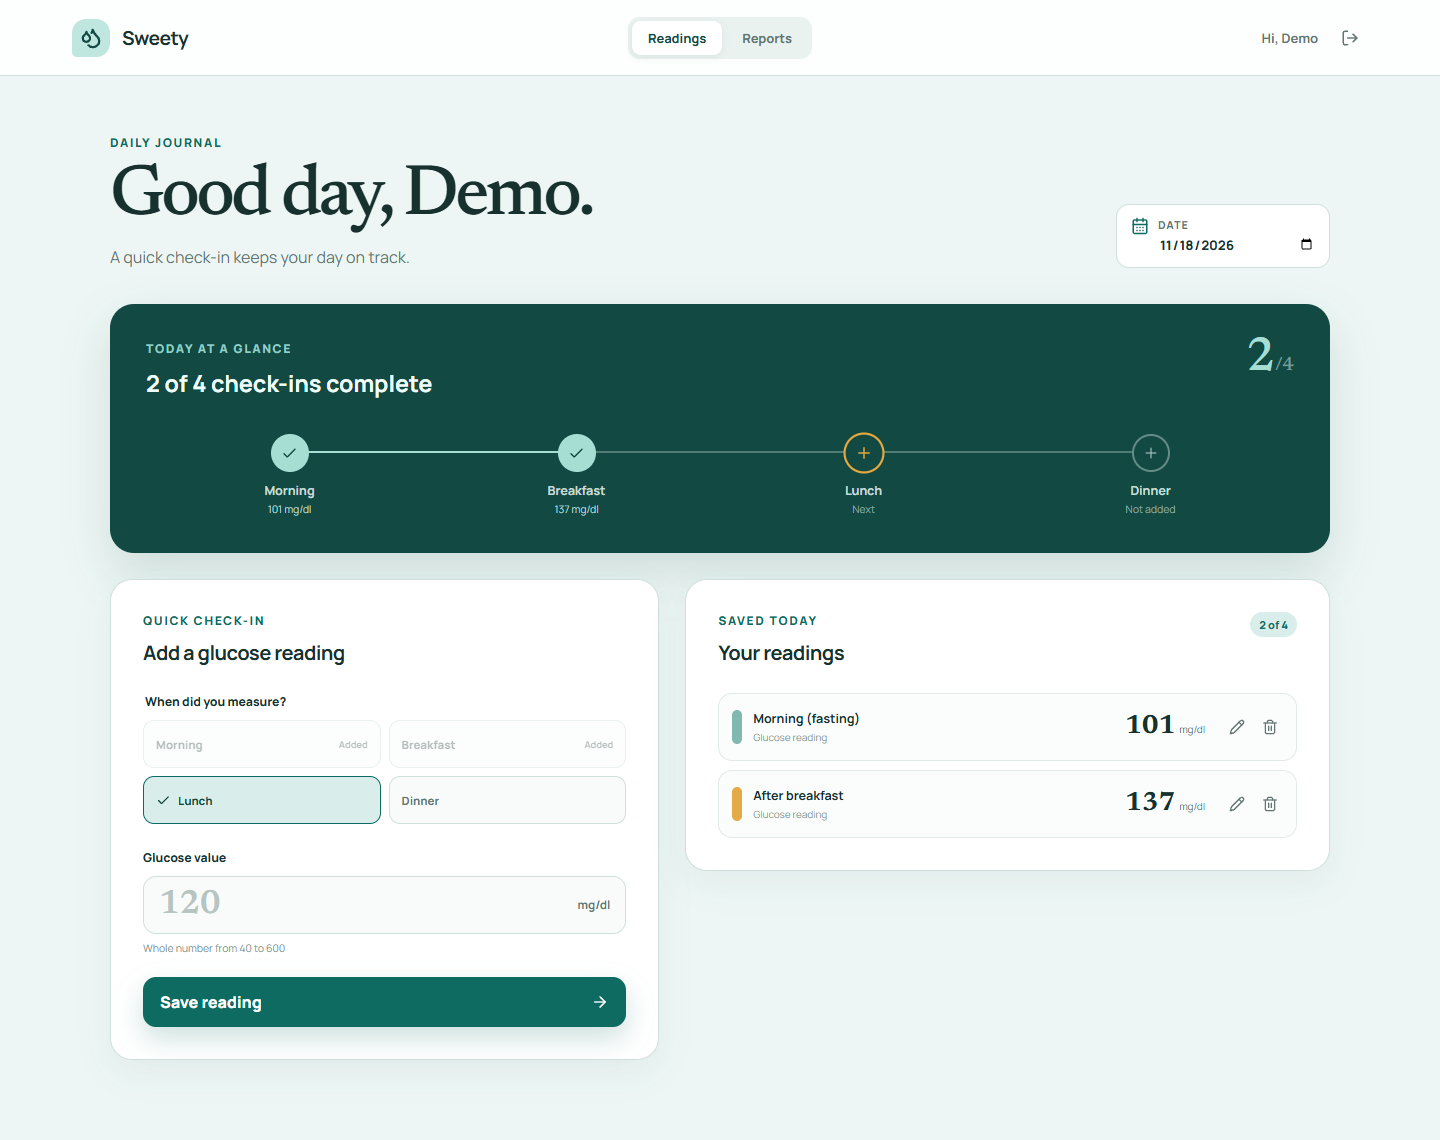
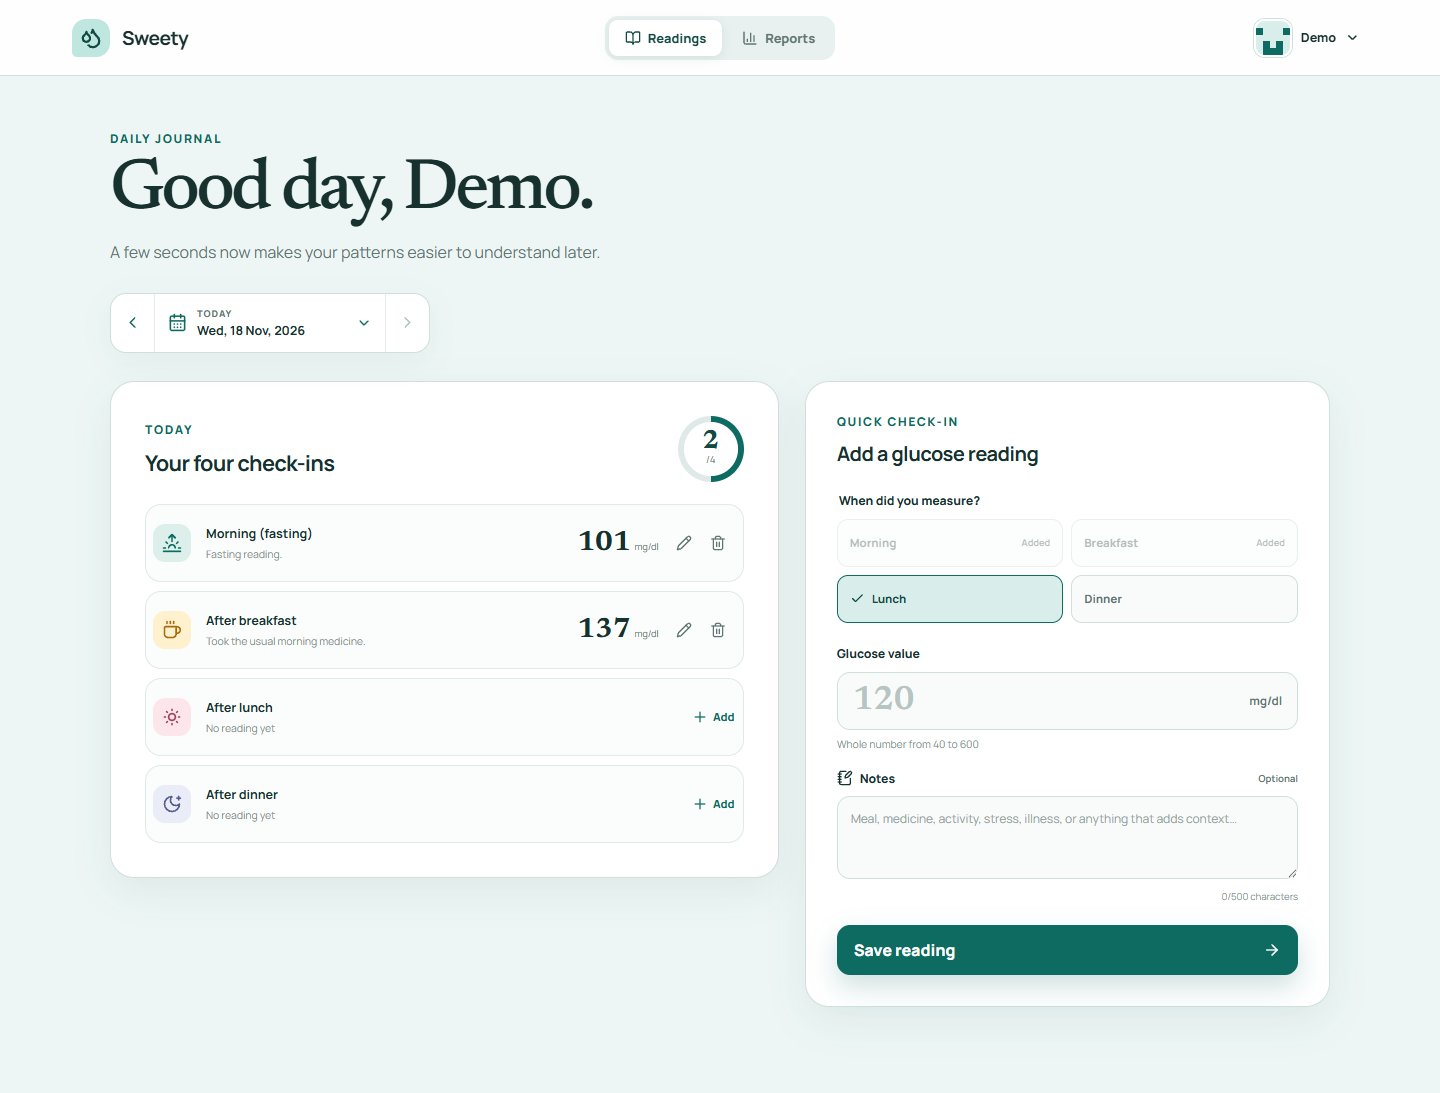
docs: refresh feature guide and screenshots

diff --git a/README.md b/README.md
@@ -1,32 +1,36 @@
 # Sweety
 
-Sweety is a small blood glucose journal for diabetes patients. A patient can record up to four readings per day, manage previous readings, and review daily, month-to-date, and previous-month reports.
+Sweety is a small blood glucose journal for diabetes patients. A patient can record up to four readings per day, add context to each check-in, manage previous readings, and review daily, month-to-date, and previous-month reports.
 
-The interface is designed for a short repeated task: the next empty time slot is selected automatically, the value field is prominent, and a completed slot can be opened directly for editing.
+The mobile-friendly interface is designed for a short repeated task: the next empty time slot is selected automatically, the value field is prominent, and a completed slot can be opened directly for editing.
 
 ## Features
 
 - Register and log in with a bcrypt-hashed password and JWT authentication.
 - Keep every reading scoped to its authenticated user.
 - Add, view, edit, and delete readings in four fixed daily slots.
+- Attach an optional note to a reading for useful context such as meals, medicine, exercise, illness, or stress.
 - Enforce value, date, duplicate-slot, and four-per-day rules in the API and database.
 - View daily, month-to-date, and complete previous-month statistics.
-- See highest, lowest, one-decimal average, count, and daily slot details.
+- See highest, lowest, one-decimal average, count, glucose trends, and day-by-day logging consistency.
+- Export the current report as CSV, print or save it as PDF, and export the user's complete history.
+- Use an in-app date picker, edit/delete controls, confirmation dialog, and generated profile avatar on desktop or mobile.
 - Paginate the complete reading history through the API.
 - Start PostgreSQL, the API, and the client with Docker Compose.
-- Run meaningful backend integration tests and React form tests.
+- Run meaningful backend integration tests plus React form and report-transition tests.
 
 ## Screenshots
 
-| Fast daily check-in | Daily report |
-|---|---|
-| ![Daily readings dashboard](docs/screenshots/dashboard.png) | ![Daily glucose report](docs/screenshots/reports.png) |
+| Fast daily check-in | Daily report | Mobile month-to-date |
+|---|---|---|
+| ![Daily readings dashboard](docs/screenshots/dashboard.png) | ![Daily glucose report](docs/screenshots/reports.png) | ![Mobile month-to-date glucose report](docs/screenshots/mobile-reports.png) |
 
 The login and registration experience is shown in [the authentication screenshot](docs/screenshots/login.png).
 
 ## Technology
 
 - React 19 and Vite
+- Recharts and React DayPicker
 - Node.js and Express 5
 - PostgreSQL with `pg` and parameterized SQL
 - bcrypt and JSON Web Tokens
@@ -106,6 +110,7 @@ It creates `users` and `readings`, including:
 - a foreign key from readings to users with cascade deletion;
 - a check constraint for the four allowed slots;
 - a check constraint for values from 40 through 600;
+- an optional note limited to 500 characters;
 - `UNIQUE (user_id, reading_date, slot)` as the final duplicate-slot safeguard.
 
 Docker creates both `sweety` and `sweety_test` databases the first time its PostgreSQL volume is initialized.
@@ -118,7 +123,7 @@ Start the Docker database, then run:
 npm test
 ```
 
-The backend tests truncate only `sweety_test`. They cover password hashing, duplicate accounts, all specified reading rules, a full-day edit, cross-user isolation, pagination, report calculations, empty reports, and the January-to-December boundary. The frontend tests cover required and range errors plus create and edit requests from the reading form.
+The backend tests truncate only `sweety_test`. They cover password hashing, duplicate accounts, all specified reading rules, notes, a full-day edit, cross-user isolation, pagination and export isolation, report calculations, empty reports, and the January-to-December boundary. The frontend tests cover required and range errors, create and edit requests with notes, and rapid report-tab transitions so stale responses cannot blank the screen.
 
 Useful individual commands:
 
@@ -140,6 +145,7 @@ Except for health, registration, and login, routes require `Authorization: Beare
 | `GET` | `/api/auth/me` | Verify a session |
 | `GET` | `/api/readings?date=YYYY-MM-DD` | Read one day |
 | `GET` | `/api/readings?page=1&limit=20` | Paginated history |
+| `GET` | `/api/readings/export` | Complete authenticated-user history |
 | `POST` | `/api/readings` | Add a reading |
 | `PATCH` | `/api/readings/:id` | Edit a reading |
 | `DELETE` | `/api/readings/:id` | Delete a reading |
@@ -147,7 +153,7 @@ Except for health, registration, and login, routes require `Authorization: Beare
 | `GET` | `/api/reports/month-to-date?date=YYYY-MM-DD` | First of month through selected date |
 | `GET` | `/api/reports/monthly?date=YYYY-MM-DD` | Complete month before selected date |
 
-Report responses include `from`, `to`, `highest`, `lowest`, `average`, and `count`. Daily reports also include the ordered readings.
+Report responses include `from`, `to`, `highest`, `lowest`, `average`, `count`, and the ordered readings for that range. The client uses the same response to render statistics, a trend chart, a consistency calendar, and exports without duplicating report calculations.
 
 ## Project structure
 
@@ -173,8 +179,10 @@ The server follows `routes → controllers → services → PostgreSQL`. Reading
 - Invalid or missing dates use `Please pick a valid date.` and invalid slots use `Please pick a time slot.` These supplement the five messages supplied in the assignment.
 - Future-date validation uses `APP_TIME_ZONE`, defaulting to `Asia/Kolkata`. The browser prevents a future selection, while the API remains authoritative.
 - A report date also cannot be in the future.
+- Notes are optional plain text and are limited to 500 characters. They provide context for later review but are not interpreted as medical advice.
 - JWT bearer authentication was chosen because it is easy to inspect and exercise through the UI, curl, or an API client. For a production health application, I would prefer short-lived access tokens delivered through secure, httpOnly cookies with the corresponding CSRF protection.
 - The average is calculated by PostgreSQL and returned as a number; the UI always renders one decimal place.
 - The four-slot database check and unique constraint make more than four valid readings structurally impossible. The service still returns the explicit four-per-day message when the day is full.
+- The consistency calendar measures logging completeness only; it deliberately does not label a glucose value as good or bad.
 
-With more time, I would add email verification and password recovery, login rate limiting, per-user time zones, versioned migrations, audit history for edited health data, automated accessibility checks, deployment CI, and production monitoring. A monthly trend chart would be the next user-facing enhancement after those reliability improvements.
+With more time, I would add email verification and password recovery, login rate limiting, per-user time zones, versioned migrations, audit history for edited health data, configurable clinical target ranges reviewed by a qualified professional, automated accessibility checks, deployment CI, and production monitoring.
